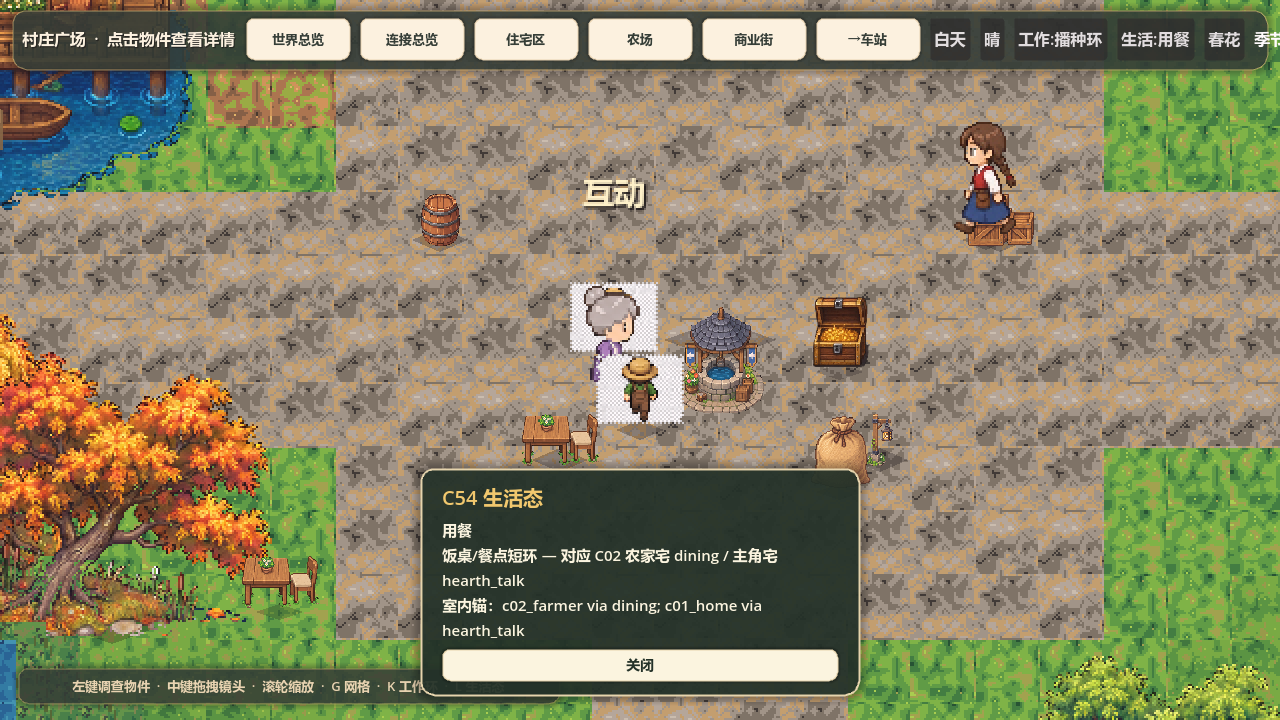
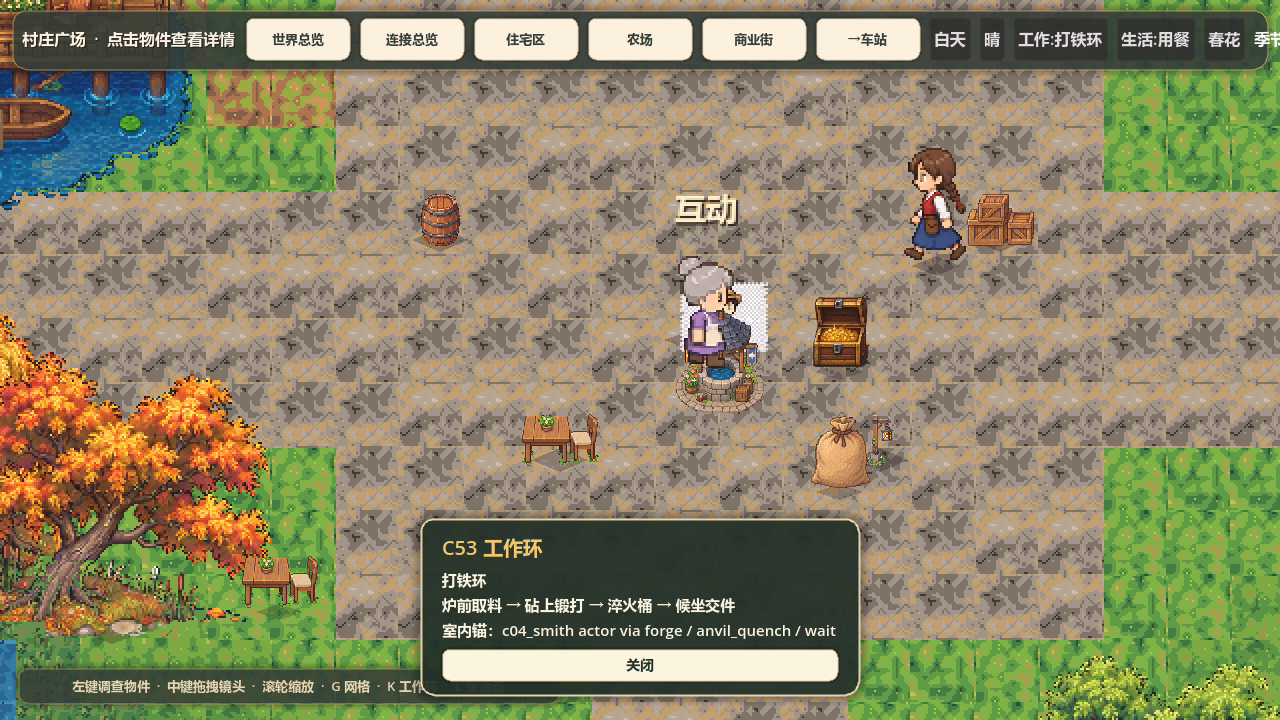
Replace mislabeled C53 deep-paint evidence with smith work ring shot.

diff --git a/dream/docs/GOAL_G8_C54_POSE_DEEP_EVIDENCE.md b/dream/docs/GOAL_G8_C54_POSE_DEEP_EVIDENCE.md
@@ -21,7 +21,7 @@
 
 Shots:
 
-- `docs/evidence/g8_c53_work_pose_deep.png`
-- `docs/evidence/g8_c54_life_pose_read_deep.png`
+- `docs/evidence/g8_c53_work_pose_deep.png` — 工作:打铁环 + deep-paint smith cue  
+- `docs/evidence/g8_c54_life_pose_read_deep.png` — 生活:阅读 + book_open cue  
 
 User §7 still open (K/L hand-feel).
